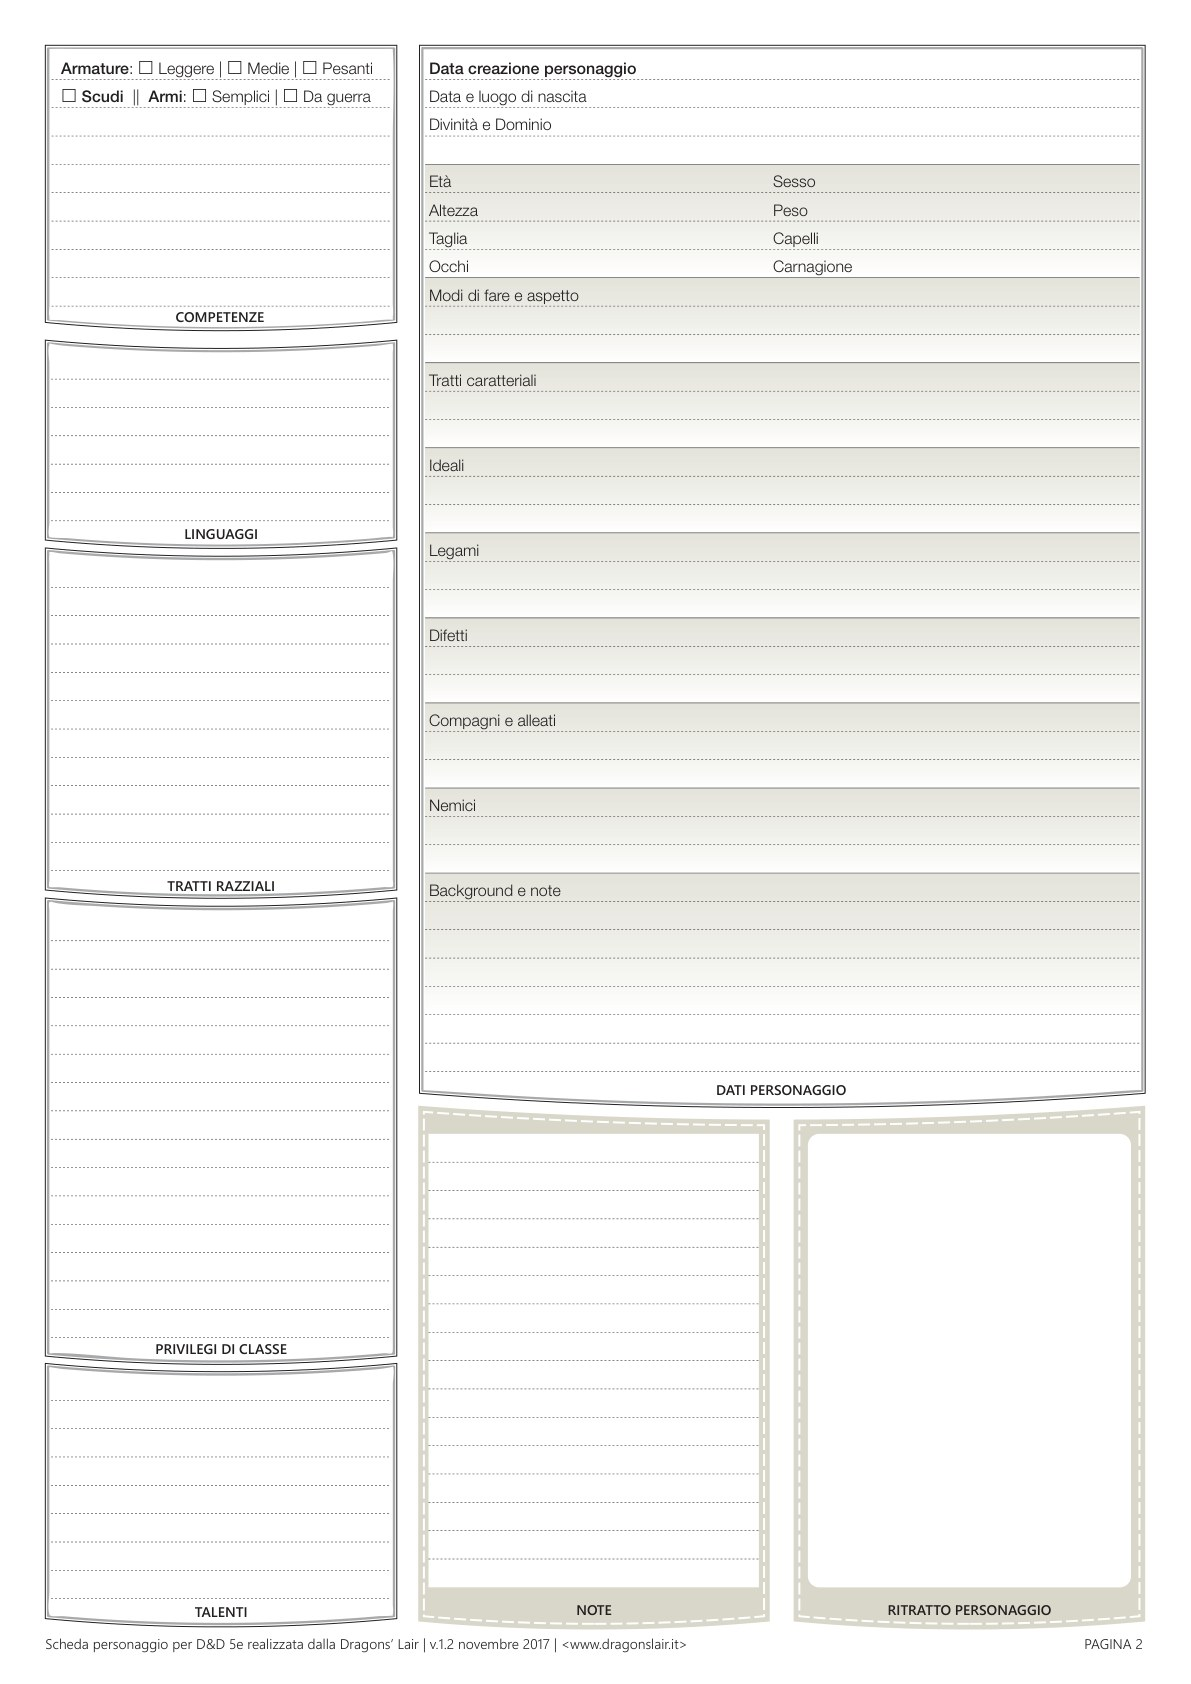
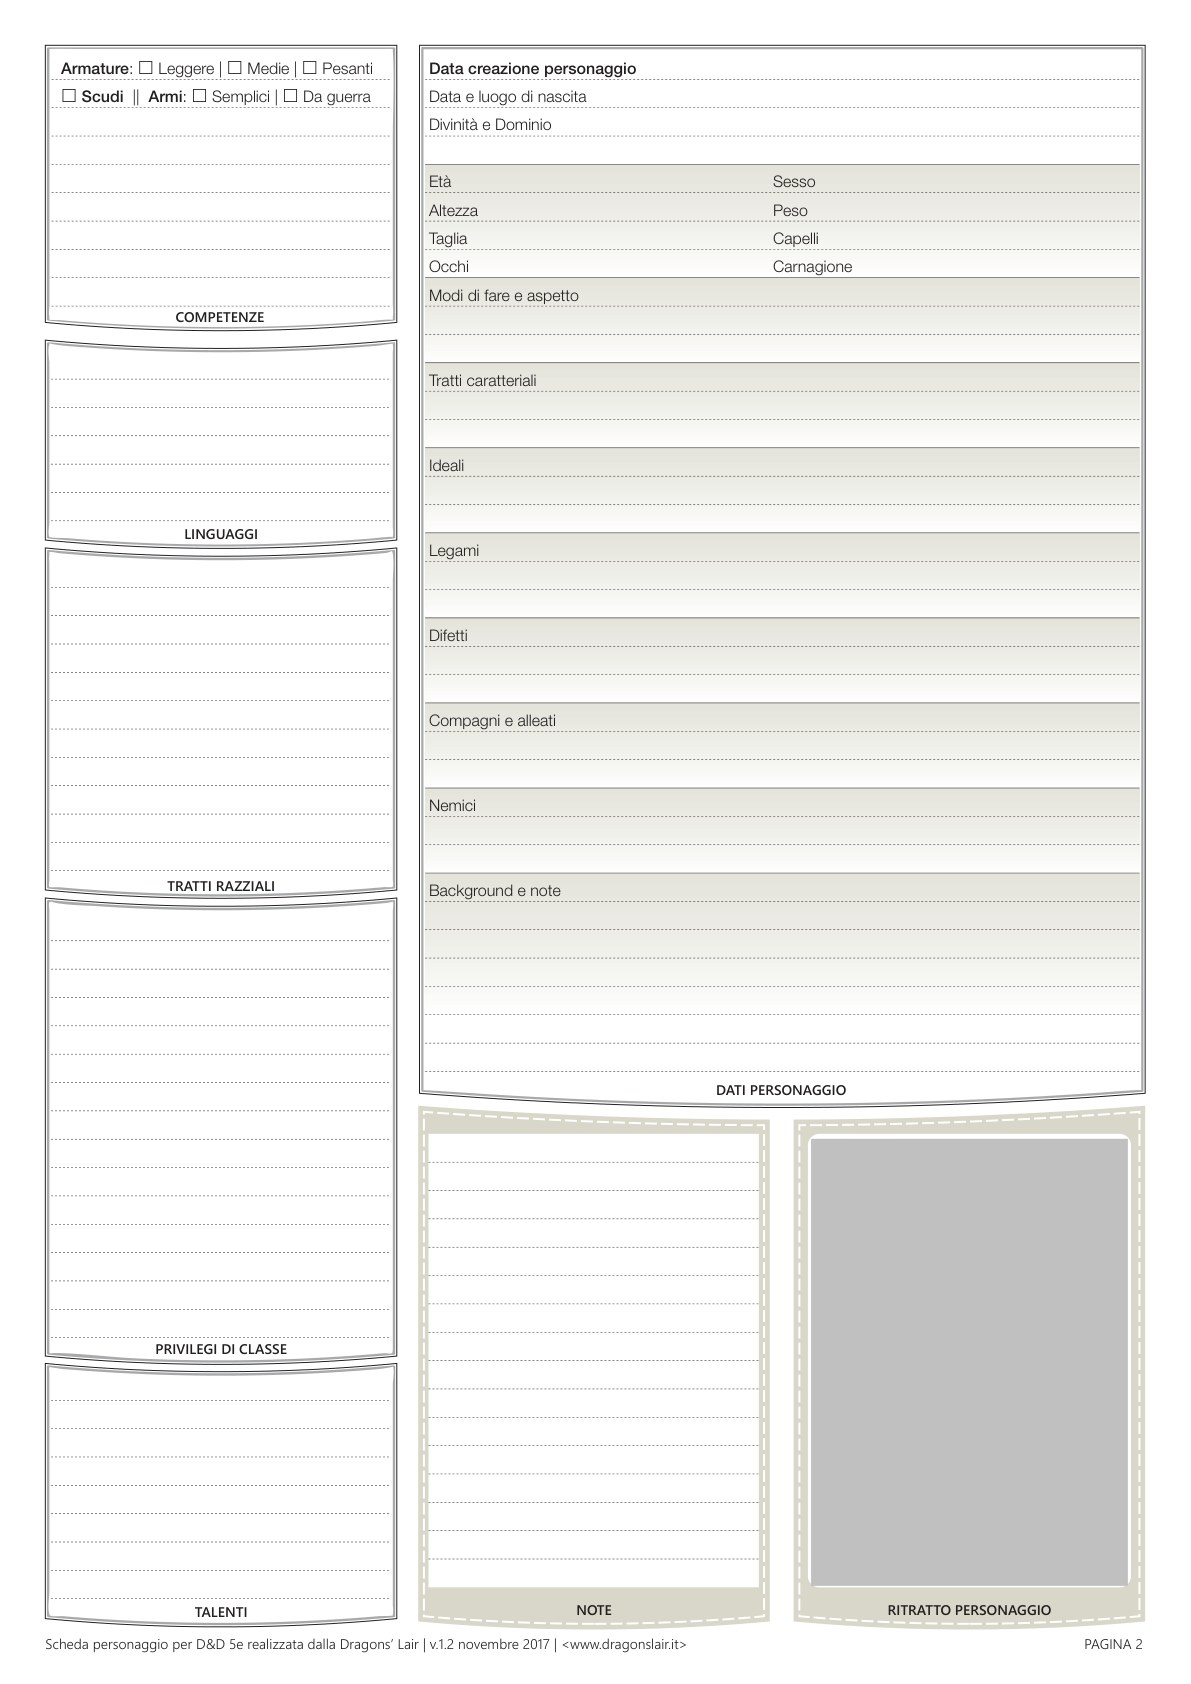
fix: retain original circular and diamond form controls in paper sheet

Changed region(s): [[0.6835, 0.6793, 0.9631, 0.9572]]

diff --git a/app/globals.css b/app/globals.css
@@ -136,11 +136,11 @@
 .paper-field{position:absolute;margin:0;border:0;border-radius:0;padding:0 .12em;background:transparent;color:#102d55;font-family:Arial,Helvetica,sans-serif;line-height:1.1;box-sizing:border-box;min-width:0;outline-offset:0;color-scheme:light}
 .paper-text{text-align:left;resize:none;overflow:hidden}
 .paper-text:focus{background:#eef7ff;outline:1.5px solid #2474bf;z-index:2}
-.paper-checkbox{appearance:none;cursor:pointer;display:grid;place-items:center;outline:1px solid #444;outline-offset:-1px;background:#fff}
+.paper-checkbox{appearance:none;cursor:pointer;display:grid;place-items:center;outline:0;background:transparent}
 .paper-checkbox:checked::after{content:'✓';font-family:Arial,sans-serif;font-size:1.4cqw;font-weight:bold;color:#122b48;line-height:1}
 .paper-checkbox:focus-visible{outline:2px solid #2474bf;z-index:3}
 .paper-page[data-highlight="true"] .paper-text{background:rgba(41,128,190,.08);box-shadow:inset 0 0 0 .5px rgba(41,128,190,.35)}
-.paper-page[data-highlight="true"] .paper-checkbox{background:#e8f4ff}
+.paper-page[data-highlight="true"] .paper-checkbox{background:rgba(41,128,190,.12)}
 @media print {
  @page{size:A4;margin:0}
  body:has(.paper-view),body:has(.paper-view)>div,body:has(.paper-view) main,body:has(.paper-view) main>div{background:white!important;border:0!important;margin:0!important;padding:0!important;max-width:none!important;width:100%!important}

diff --git a/docs/releases/2026-10-17-personaggi-scheda-madre.md b/docs/releases/2026-10-17-personaggi-scheda-madre.md
@@ -4,8 +4,8 @@
 Mantenere il risultato visivo del PDF caricato, con compilazione direttamente nell'app. Modifica circoscritta alla presentazione della scheda esistente; nessuna attivazione di account o database.
 
 ## Implementazione
-- Quattro pagine A4 renderizzate dal PDF originale senza annotazioni, come base visiva, per conservare cornici, colori, impaginazione e attribuzione Dragons' Lair.
-- 902 campi reali HTML (621 testi, 281 caselle); escluso un pulsante PDF privo di contenuto da compilare. Coordinate e dimensioni estratte dai widget del documento, nessuna ricostruzione approssimativa a colonne.
+- Quattro pagine A4 renderizzate dal PDF originale con le apparenze vuote delle annotazioni, come base visiva, per conservare cornici, colori, impaginazione e attribuzione Dragons' Lair.
+- 902 campi reali HTML (621 testi, 281 caselle); escluso un pulsante PDF privo di contenuto da compilare. Coordinate e dimensioni estratte dai widget del documento, nessuna ricostruzione approssimativa a colonne. Le forme dei campi originali (cerchi/rombi) sono preservate nella base visiva; i controlli web sono trasparenti.
 - Scheda originale come vista predefinita; gestione rapida precedente mantenuta. Pagina selezionabile, zoom con scorrimento confinato e campi evidenziabili.
 - Nome, classe/livello, specie, background, caratteristiche, TS e competenze, PF, CA, movimento, attacchi principali, monete, note e massimi slot condivisi col modello esistente.
 - Gli altri campi sono liberi e conservati in paperFields, inclusi export JSON e snapshot. Correzioni manuali ai valori derivati nella vista cartacea restano specifiche di quella vista; nessuna promessa di automazione completa.
@@ -17,3 +17,6 @@ Test del ponte dati e del layout: 902 nomi univoci, coordinate all'interno delle
 
 ## Limiti mantenuti
 Anteprima dimostrativa, dati soltanto in memoria della sessione; non persistenti dopo reload/chiusura. Account privati e sincronizzazione ancora da attivare con database separato. Nessuna migrazione o scrittura DB, nessuna pubblicazione in produzione.
+
+## Prova browser
+Commit iniziale 48b1406fc103a5160bb2f4363d8260fb3d3d8003: preview READY; compilazione Nome, Forza17, TS; nella gestione rapida verificati nome, Forza17 e TS+5. Cambio pagina, Allineamento mantenuto, Note.0 compilata, monete MO120, override conteggio incantesimi e casella slot01 verificati. Ritocco successivo della base visiva preserva le apparenze originali delle caselle.
